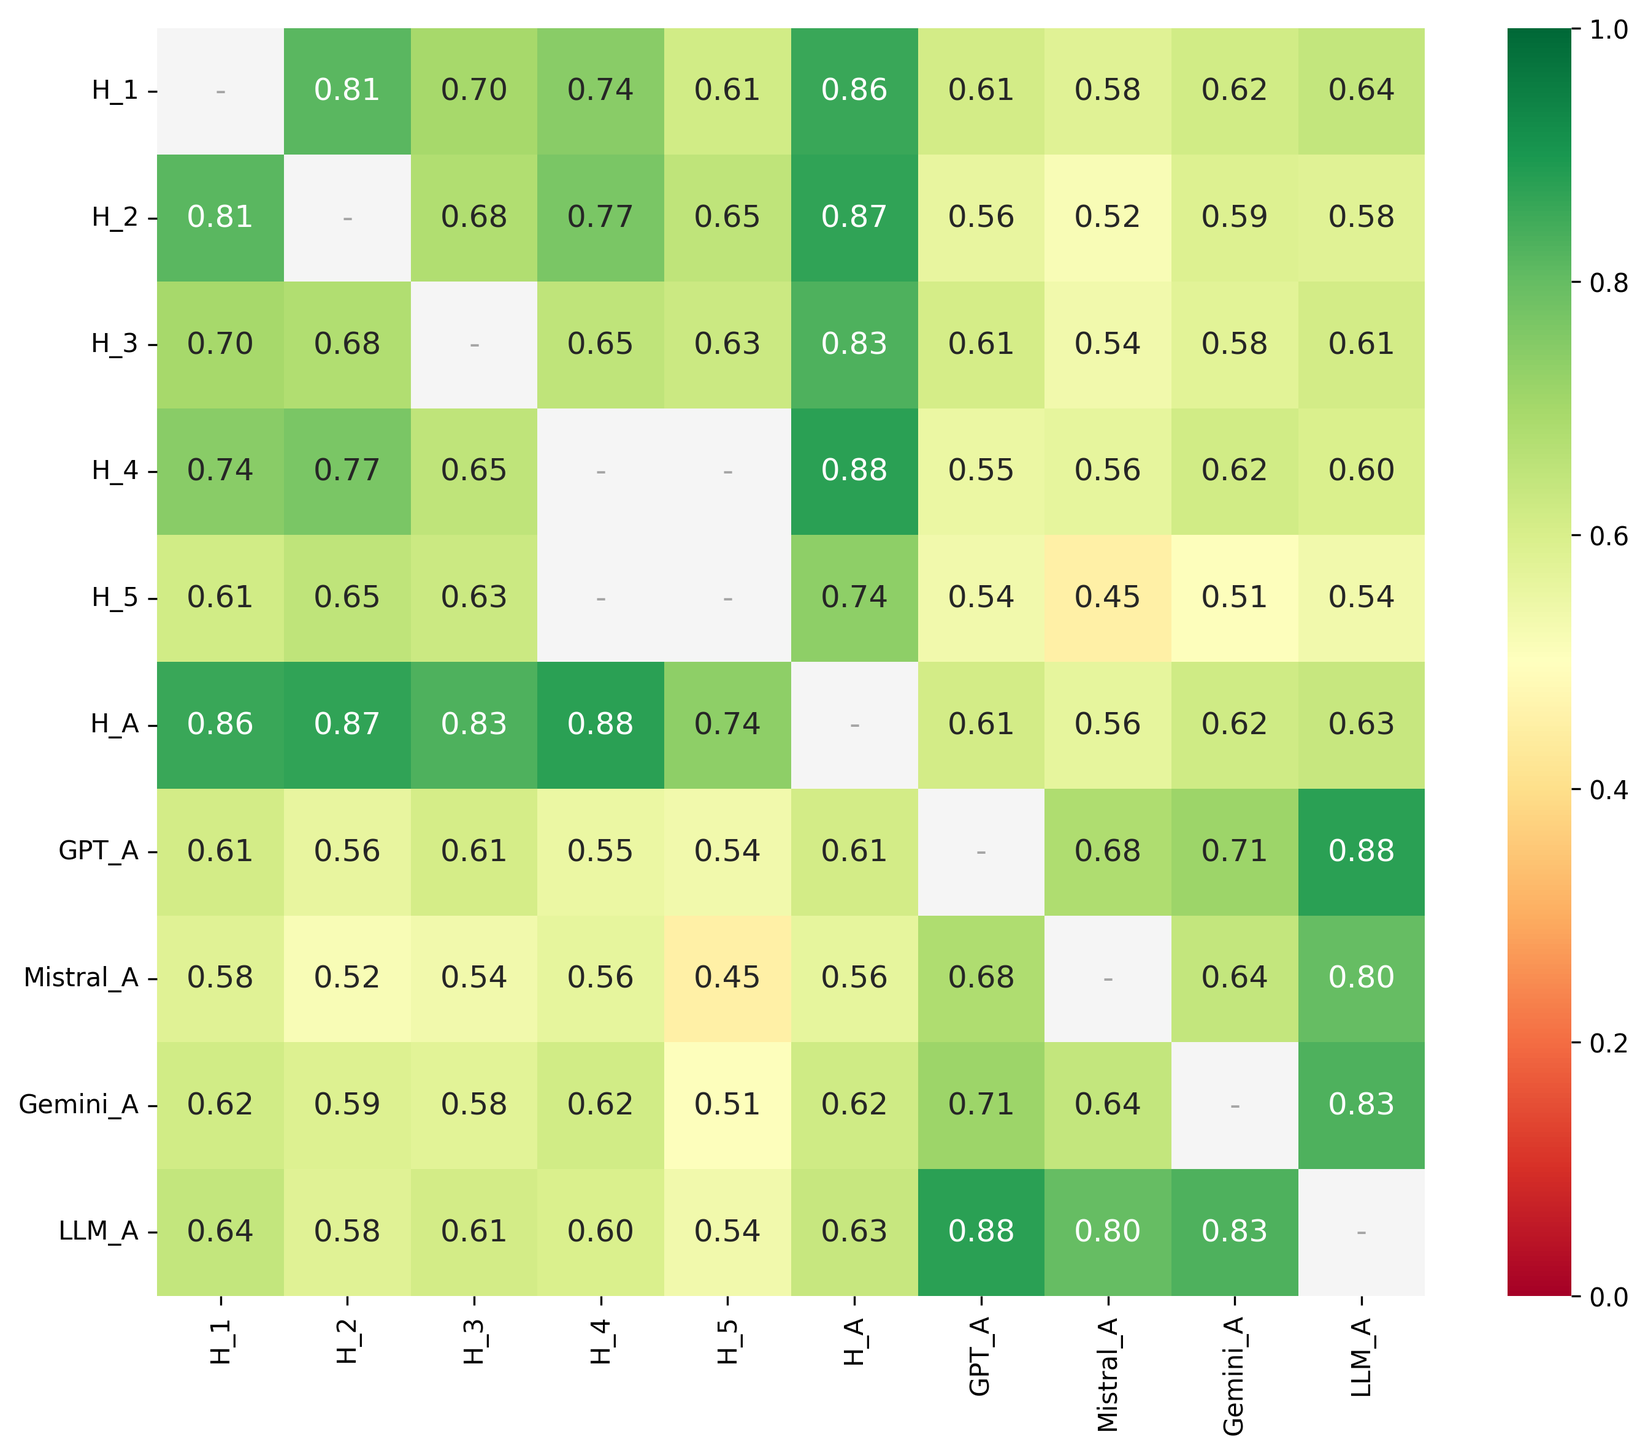
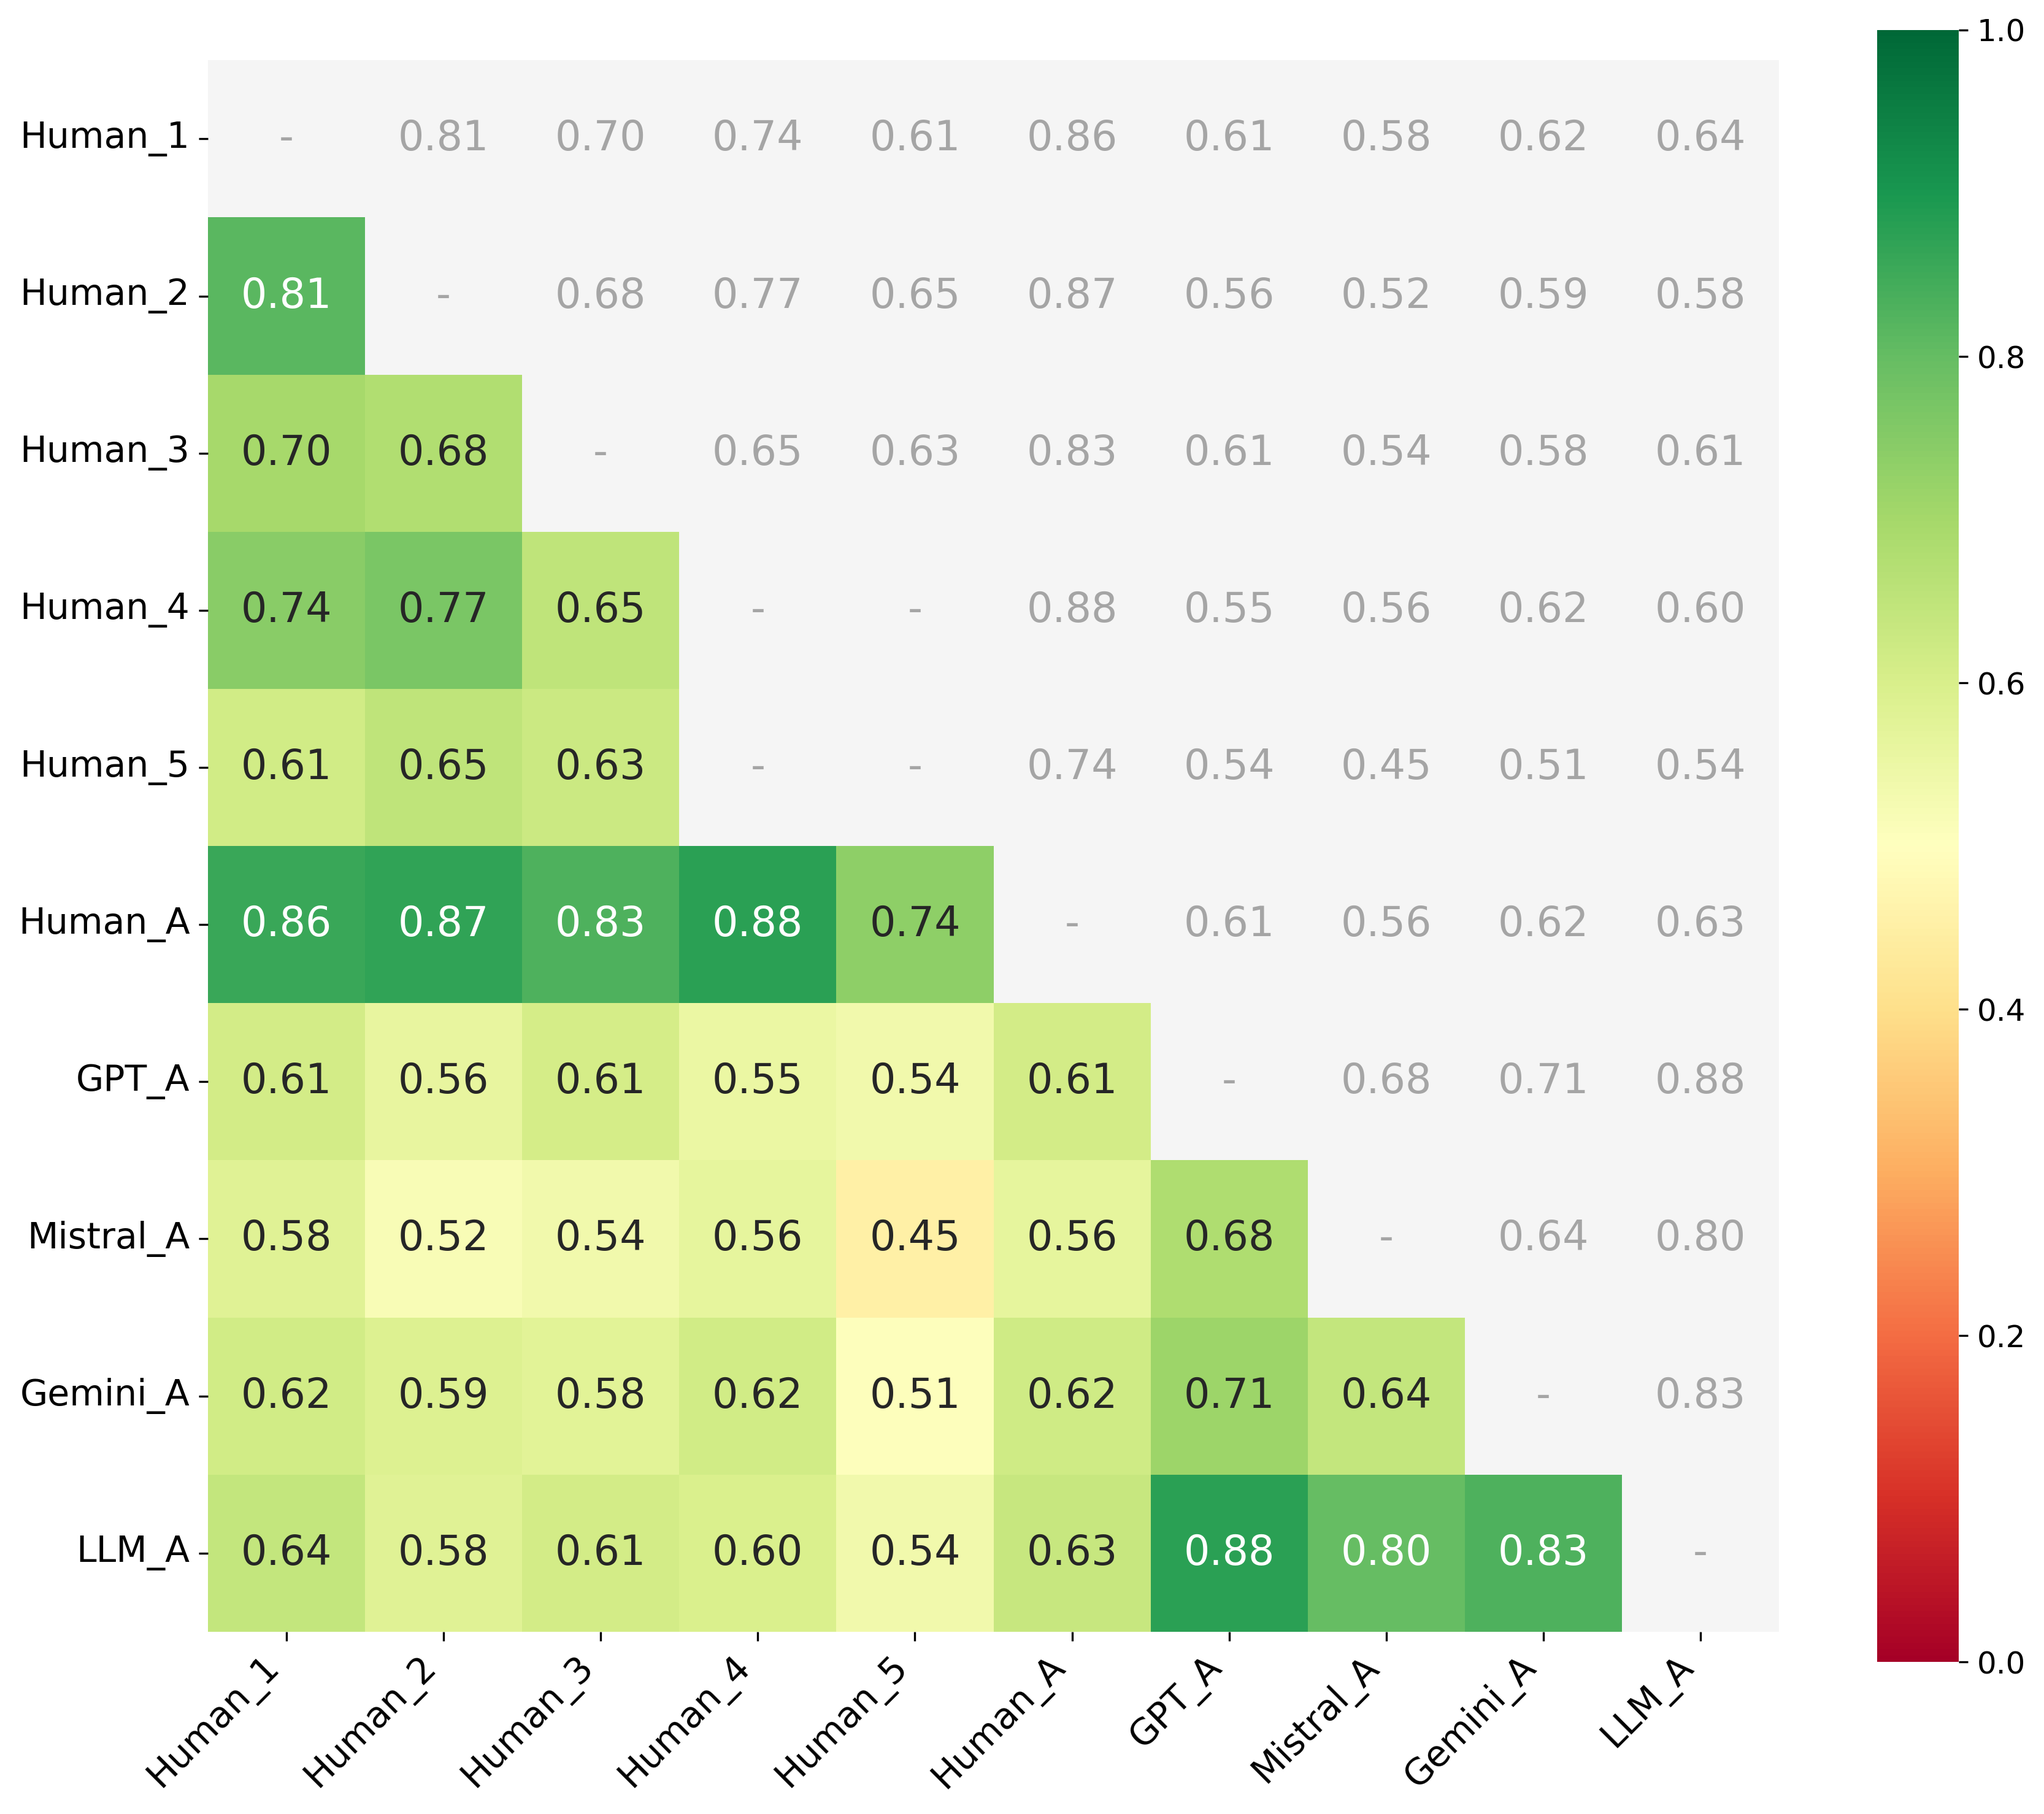
update kappa code

diff --git a/code/evaluation/kappa_analysis.py b/code/evaluation/kappa_analysis.py
@@ -26,7 +26,7 @@ all_annotators = ['QM', 'MT', 'MO', 'JM', 'XF',
                   'agreement_mistral-large-2411-1-mistral-large-2411-2-mistral-large-2411-3',
                   'agreement_gemini-2-0-flash-1-gemini-2-0-flash-2-gemini-2-0-flash-3', 
                   'agreement_gemini-2-0-flash-1-gemini-2-0-flash-2-gemini-2-0-flash-3-gpt-4o-1-gpt-4o-2-gpt-4o-3-mistral-large-2411-1-mistral-large-2411-2-mistral-large-2411-3']
-heatmap_tags = ['H_1', 'H_2', 'H_3', 'H_4', 'H_5', 'H_A', 'GPT_A', 'Mistral_A', 'Gemini_A', 'LLM_A']
+heatmap_tags = ['Human_1', 'Human_2', 'Human_3', 'Human_4', 'Human_5', 'Human_A', 'GPT_A', 'Mistral_A', 'Gemini_A', 'LLM_A']
 
 def get_annotation_data(folder_path, exclude_iterations=None):
     """Extract annotation data from all iteration folders."""
@@ -141,44 +141,43 @@ def calculate_fleiss_kappa_for_iteration(annotations):
     filtered_annotations = {ann: data for ann, data in annotations.items() 
                           if ann in all_annotators}
     
-    # Add defensive check
     if not filtered_annotations:
         print("Warning: No valid annotations found for this iteration")
         return float('nan')
         
     num_reviews = len(next(iter(filtered_annotations.values())))
-    num_emotions = 10
+    num_emotions = 10  # Number of emotions being rated
     num_annotators = len(filtered_annotations)
     
-    # Add defensive check
     if num_reviews == 0:
         print("Warning: No reviews found in annotations")
         return float('nan')
-    
-    # Create a matrix where each row represents one item (review-emotion pair)
-    # and contains the number of raters who assigned each category (0 or 1)
-    n = num_annotators  # number of raters
-    N = num_reviews * num_emotions  # number of subjects (review-emotion pairs)
-    
-    # Initialize ratings matrix for each subject
-    ratings = np.zeros((N, 2))  # 2 categories: 0 and 1
+
+    # For each review-emotion pair, we need to count how many annotators marked 0 and 1
+    # Create a matrix of shape (num_reviews * num_emotions, 2) where
+    # each row represents a review-emotion pair and columns represent counts of 0s and 1s
+    ratings_matrix = np.zeros((num_reviews * num_emotions, 2))
     
     # Fill the ratings matrix
     for i in range(num_reviews):
         for j in range(num_emotions):
             idx = i * num_emotions + j
-            # Count ratings for this review-emotion pair
+            # Count how many annotators marked this emotion as present (1)
             count_ones = sum(1 for ann in filtered_annotations.values() 
                            if ann[i][j] == 1)
-            ratings[idx, 1] = count_ones  # number of 1s
-            ratings[idx, 0] = n - count_ones  # number of 0s
+            ratings_matrix[idx, 1] = count_ones
+            ratings_matrix[idx, 0] = num_annotators - count_ones
     
-    # Calculate P_i (proportion of agreement for each subject)
-    P_i = np.sum(ratings * (ratings - 1), axis=1) / (n * (n - 1))
-    P_bar = np.mean(P_i)  # mean agreement across subjects
+    # Calculate P_i (proportion of agreeing pairs out of all possible pairs)
+    # For each item (review-emotion pair)
+    P_i = np.sum(ratings_matrix * (ratings_matrix - 1), axis=1) / (num_annotators * (num_annotators - 1))
+    
+    # Calculate P̄ (mean agreement across all items)
+    P_bar = np.mean(P_i)
     
     # Calculate P_e (expected agreement by chance)
-    p_j = np.sum(ratings, axis=0) / (N * n)  # proportion of assignments in each category
+    # First get the proportion of all ratings in each category (0 and 1)
+    p_j = np.sum(ratings_matrix, axis=0) / (ratings_matrix.shape[0] * num_annotators)
     P_e = np.sum(p_j ** 2)
     
     # Calculate Fleiss' Kappa
@@ -186,7 +185,16 @@ def calculate_fleiss_kappa_for_iteration(annotations):
     
     return kappa
 
-def create_agreement_heatmap(all_pair_kappas, all_annotators, output_path):
+def create_agreement_heatmap(all_pair_kappas, all_annotators, output_path, show_full_matrix=True):
+    """
+    Create a heatmap of agreement scores.
+    
+    Args:
+        all_pair_kappas: Dictionary of pairwise kappa scores
+        all_annotators: List of annotator names
+        output_path: Path to save the heatmap
+        show_full_matrix: If False, only shows lower triangle of the matrix
+    """
     # Create the matrix for the heatmap
     n = len(all_annotators)
     matrix = np.zeros((n, n))
@@ -214,38 +222,47 @@ def create_agreement_heatmap(all_pair_kappas, all_annotators, output_path):
     # Create mask for values that are 0 or 1
     mask = (matrix == 0) | (matrix == 1)
     
+    # Add mask for upper triangle if not showing full matrix
+    if not show_full_matrix:
+        mask = mask | np.triu(np.ones_like(matrix), k=1).astype(bool)
+    
     # Create the heatmap
-    plt.figure(figsize=(10, 8))
+    plt.figure(figsize=(12, 10))
     
     # Create base heatmap
     sns.heatmap(matrix, 
-                annot=True,  # Show values in cells
-                fmt='.2f',   # Format as 2 decimal places
-                cmap='RdYlGn',  # Red-Yellow-Green colormap
-                xticklabels=heatmap_tags,
-                yticklabels=heatmap_tags,
-                vmin=0,      # Minimum value for color scaling
-                vmax=1,      # Maximum value for color scaling
-                square=True, # Make cells square
-                mask=mask,   # Apply mask for special formatting
-                cbar=True,   # Show colorbar
-                annot_kws={'size': 12})  # Bigger font size for numbers
-
-    # Overlay very light grey boxes with '-' for 0 and 1 values
-    sns.heatmap(matrix, 
-                annot=[[format_value(val) for val in row] for row in matrix],
-                fmt='',      # No formatting as we're using custom format
-                cmap=['#F5F5F5'],  # Very light grey color
+                annot=True,
+                fmt='.2f',
+                cmap='RdYlGn',
                 xticklabels=heatmap_tags,
                 yticklabels=heatmap_tags,
                 vmin=0,
                 vmax=1,
                 square=True,
-                mask=~mask,  # Invert mask to only show 0 and 1 values
-                cbar=False,  # Don't show second colorbar
-                annot_kws={'size': 12, 'color': '#A5A5A5'})  # Bigger white font
+                mask=mask,
+                cbar=True,
+                annot_kws={'size': 16})
 
-    #plt.title('Overall Average Agreement Heatmap')
+    # Overlay for special values
+    sns.heatmap(matrix, 
+                annot=[[format_value(val) for val in row] for row in matrix],
+                fmt='',
+                cmap=['#F5F5F5'],
+                xticklabels=heatmap_tags,
+                yticklabels=heatmap_tags,
+                vmin=0,
+                vmax=1,
+                square=True,
+                mask=~mask,
+                cbar=False,
+                annot_kws={'size': 16, 'color': '#A5A5A5'})
+
+    plt.xticks(rotation=45, ha='right', fontsize=14)
+    plt.yticks(rotation=0, fontsize=14)
+    
+    cbar = plt.gca().collections[0].colorbar
+    cbar.ax.tick_labels = plt.setp(cbar.ax.get_yticklabels(), fontsize=12)
+
     plt.tight_layout()
     
     # Save the heatmap
@@ -254,7 +271,7 @@ def create_agreement_heatmap(all_pair_kappas, all_annotators, output_path):
     plt.close()
     print(f"Saved heatmap to: {heatmap_path}")
 
-def create_excel_report(iterations_data, output_path):
+def create_excel_report(iterations_data, output_path, show_full_matrix=False):
     """Create Excel report with all statistics."""
     wb = Workbook()
     ws = wb.active
@@ -400,7 +417,7 @@ def create_excel_report(iterations_data, output_path):
     wb.save(output_path)
     
     # Create and save the heatmap
-    create_agreement_heatmap(all_pair_kappas, all_annotators, output_path)
+    create_agreement_heatmap(all_pair_kappas, all_annotators, output_path, show_full_matrix=show_full_matrix)
 
 def main():
     # Set up logging
@@ -415,15 +432,15 @@ def main():
     
     if len(sys.argv) < 2:
         logging.error("Invalid number of arguments")
-        print("Usage: python kappa_analysis.py <folder_path> [excluded_iterations]")
-        print("Example: python kappa_analysis.py ./data 0,1,2")
+        print("Usage: python kappa_analysis.py <folder_path> [excluded_iterations] [show_full_matrix]")
+        print("Example: python kappa_analysis.py ./data 0,1,2 true")
         sys.exit(1)
     
     folder_path = sys.argv[1]
     
     # Parse excluded iterations if provided
     exclude_iterations = None
-    if len(sys.argv) > 2:
+    if len(sys.argv) > 2 and sys.argv[2] != 'true' and sys.argv[2] != 'false':
         try:
             exclude_iterations = [int(x) for x in sys.argv[2].split(',')]
             logging.info(f"Excluding iterations: {exclude_iterations}")
@@ -431,6 +448,13 @@ def main():
             logging.error("Invalid format for excluded iterations. Use comma-separated integers.")
             print("Error: Invalid format for excluded iterations. Use comma-separated integers (e.g., 0,1,2)")
             sys.exit(1)
+    
+    # Parse show_full_matrix parameter if provided
+    show_full_matrix = False  # default value
+    if len(sys.argv) > 3:
+        show_full_matrix = sys.argv[3].lower() == 'true'
+    elif len(sys.argv) == 3 and (sys.argv[2] == 'true' or sys.argv[2] == 'false'):
+        show_full_matrix = sys.argv[2].lower() == 'true'
     
     if not os.path.exists(folder_path):
         logging.error(f"Folder does not exist: {folder_path}")
@@ -454,7 +478,9 @@ def main():
             
         output_path = os.path.join(folder_path, output_filename)
         logging.info(f"Creating Excel report at: {output_path}")
-        create_excel_report(iterations_data, output_path)
+        
+        # Pass show_full_matrix parameter to create_excel_report
+        create_excel_report(iterations_data, output_path, show_full_matrix)
         logging.info("Processing completed successfully")
         print(f"Agreement statistics have been saved to: {output_path}")
     
